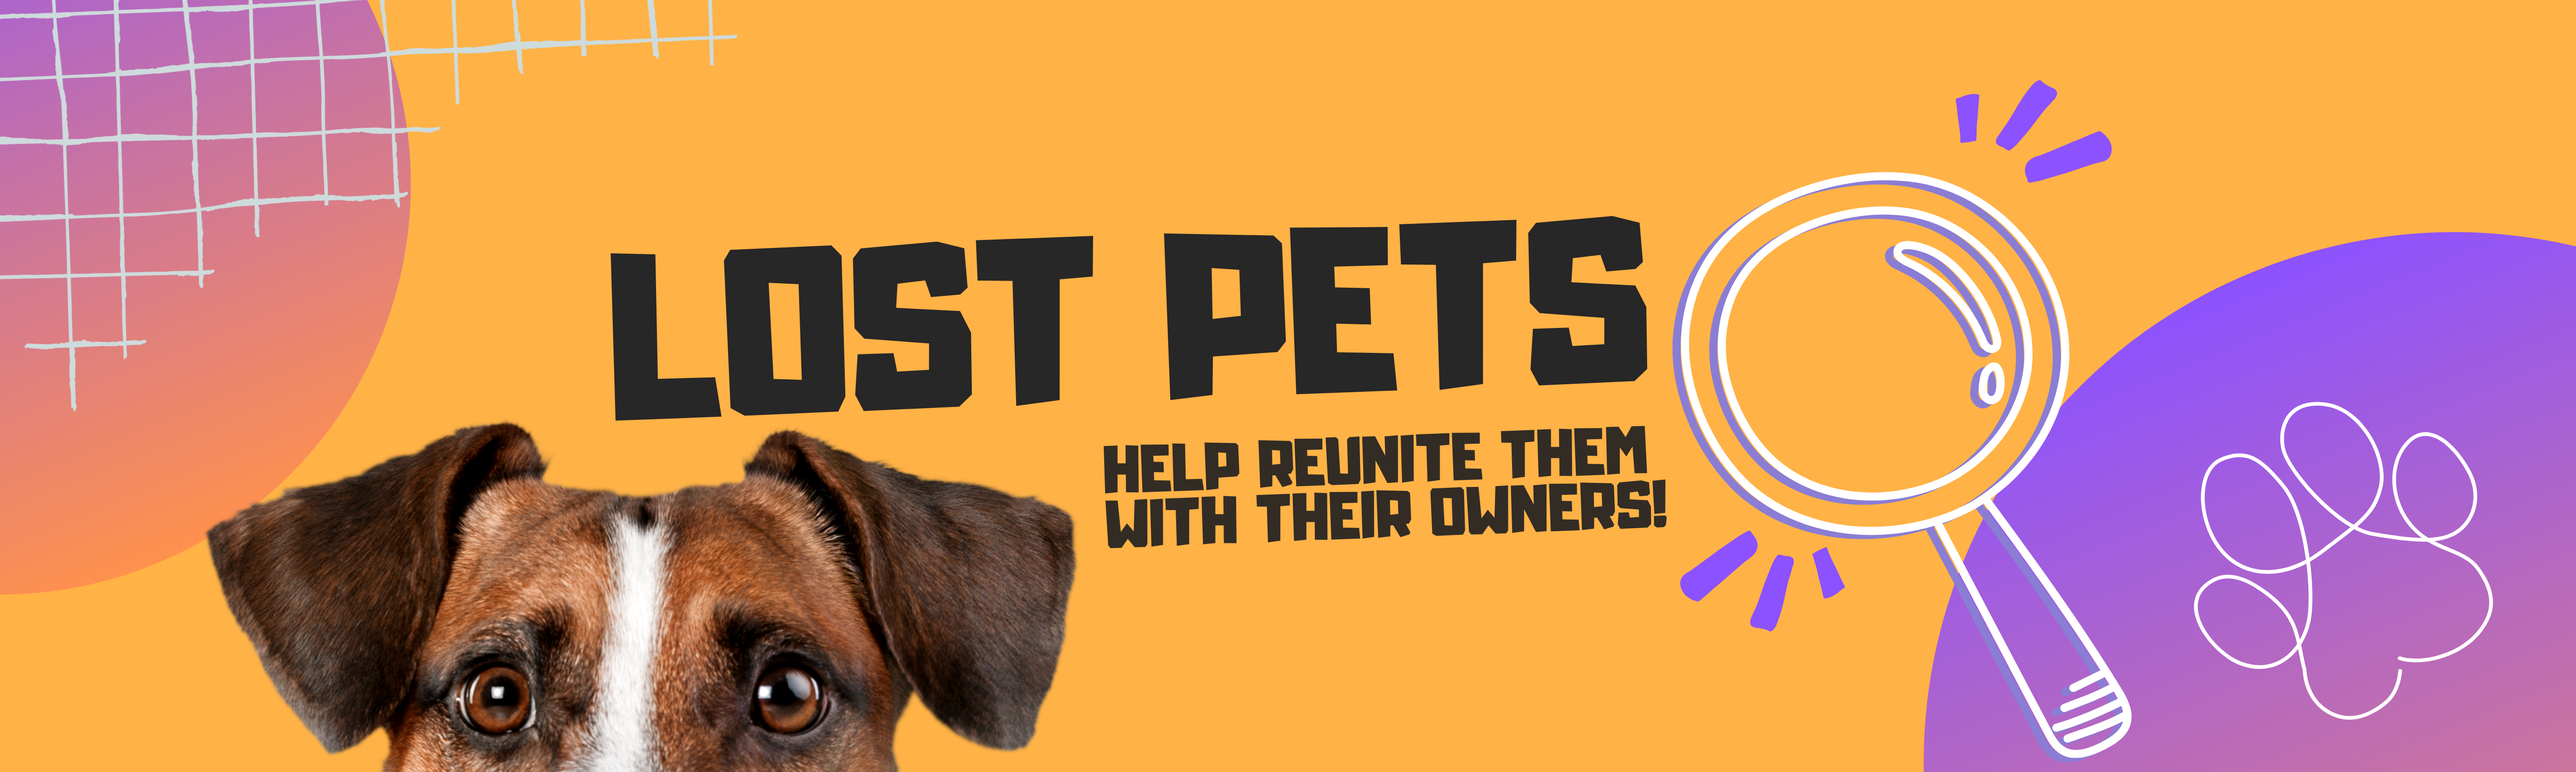
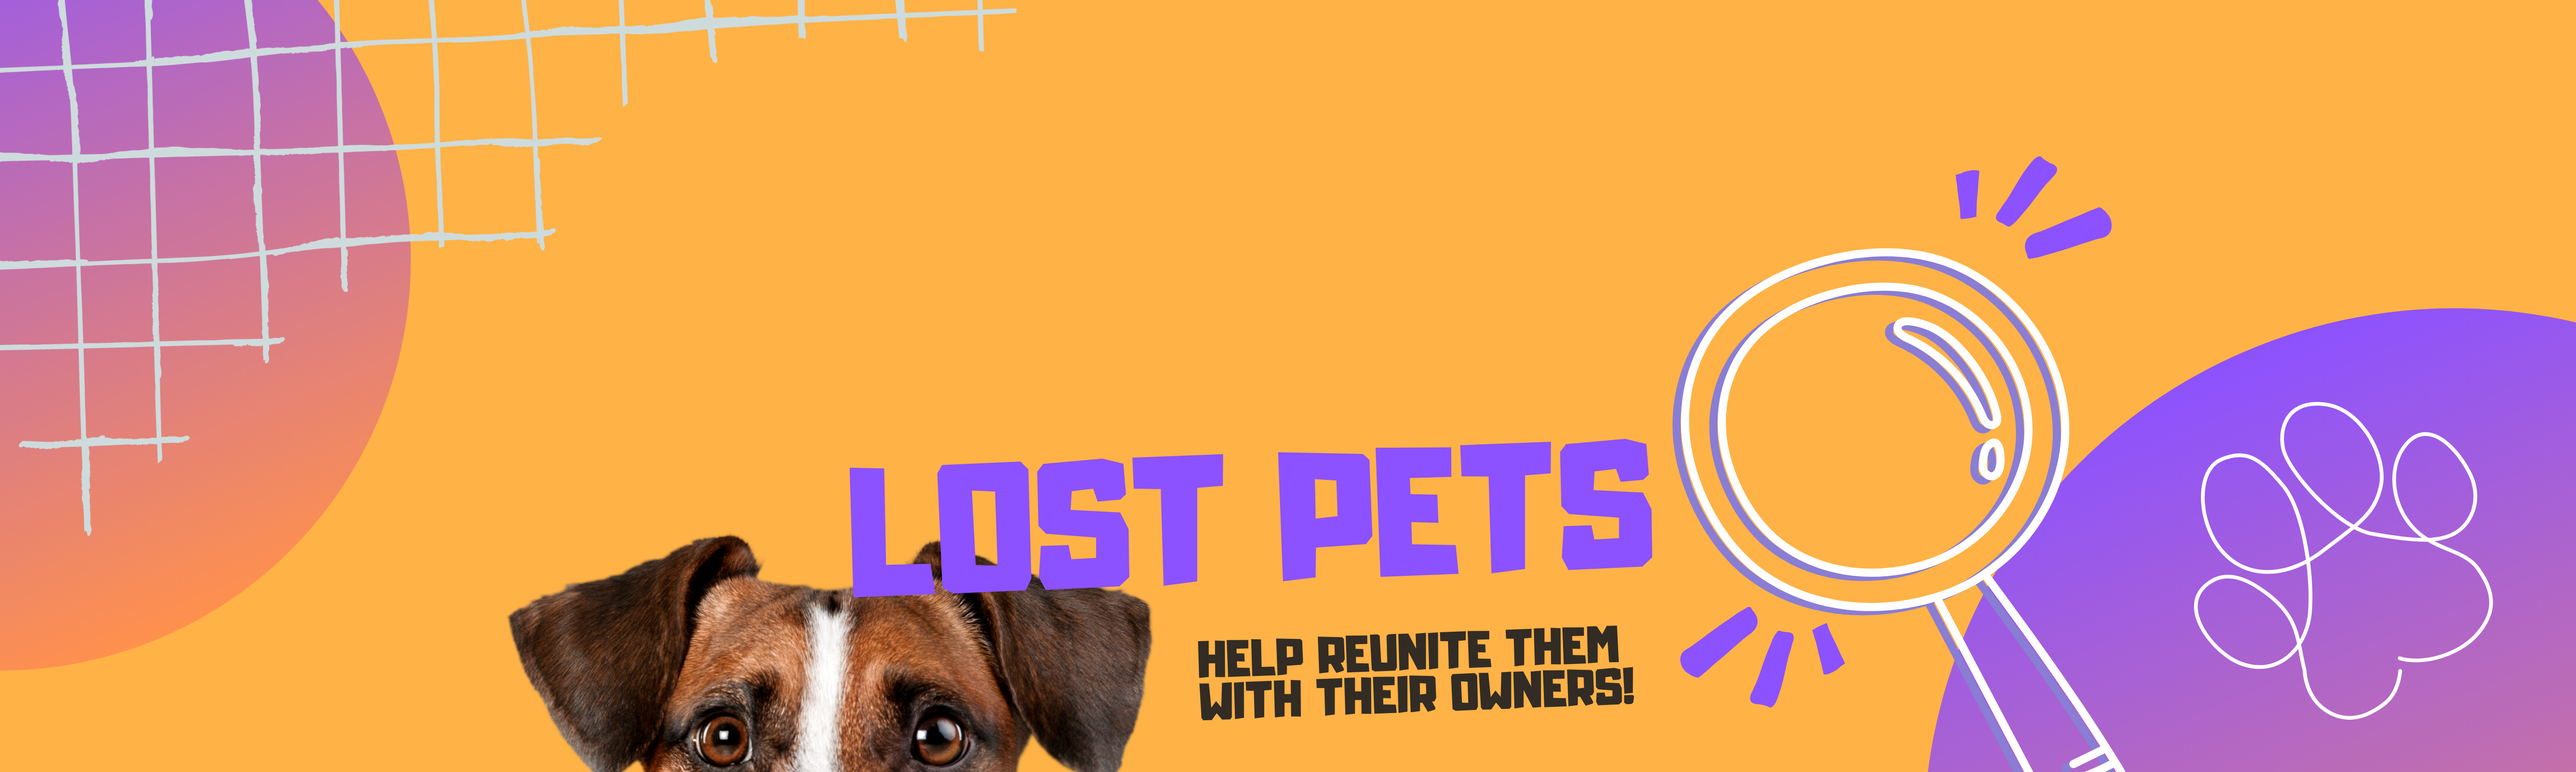
Updated Nav bar and Slug Edit Page

diff --git a/Final-Project-Frontend/src/component/Nav.svelte b/Final-Project-Frontend/src/component/Nav.svelte
@@ -1,4 +1,7 @@
 <script>
+import { loggedIn, logOut } from '../utils/func'
+
+
 
 </script>
 
@@ -7,12 +10,13 @@
   <div class="navbar-start">
     <div class="dropdown">
       <div tabindex="0" role="button" class="btn btn-ghost lg:hidden">
-        <svg xmlns="http://www.w3.org/2000/svg" class="h-5 w-5" fill="none" viewBox="0 0 24 24" stroke="currentColor"><path stroke-linecap="round" stroke-linejoin="round" stroke-width="2" d="M4 6h16M4 12h8m-8 6h16" /></svg>
+        <img src="/BurgerM.png" alt="Icon" class="h-8 w-8" fill="none" viewBox="0 0 24 24" stroke="currentColor"><path stroke-linecap="round" stroke-linejoin="round" stroke-width="2" d="M4 6h16M4 12h8m-8 6h16">
       </div>
 <!-- Small/Mobile Broswer -->
-      <ul tabindex="0" class="menu menu-sm dropdown-content mt-3 z-[1] p-2 shadow bg-base-100 rounded-box w-52">
+      <ul class="menu menu-sm dropdown-content mt-3 z-[1] p-2 shadow bg-base-100 rounded-box w-52">
         <li><a href="/ourMission">Our Mission</a></li>
         <li>
+          <!-- svelte-ignore a11y-missing-attribute -->
           <a>Find out more</a>
           <ul class="p-2">
             <li><a href="/lostGallery">Search lost pet</a></li>
@@ -41,31 +45,23 @@
           </ul>
         </details>
       </li>
+      {#if $loggedIn}
       <li><a href="/form/upload" class="text-white">Create Post</a></li>
+      {:else}
+      <li><a href="/users/login" class="text-white">Create Post</a></li>
+      {/if}
     </ul>
   </div>
   <div class="navbar-end">
-
-    <a href="/users/create" class="btn btn-outline btn-accent mr-3">Create Account</a>
-    <a href="/users/login" class="btn btn-outline btn-accent mr-3">Login</a>
-
-  </div>
+    {#if $loggedIn}
+      <!-- Display user profile and log out buttons when user is logged in -->
+      <a href="/profile" class="btn btn-outline btn-accent mr-3">User Profile</a>
+      <button on:click={logOut} href = "/" class="btn btn-outline btn-accent mr-3">Log Out</button>
+    {:else}
+      <!-- Display create account and login buttons when user is not logged in -->
+      <a href="/users/create" class="btn btn-outline btn-accent mr-3">Create Account</a>
+      <a href="/users/login" class="btn btn-outline btn-accent mr-3">Login</a>
+    {/if}
 </div>
-
-
-
-
-<!-- Login Logout Button -->
-<!-- 
-<div class="navbar-end">
-  {#if userLoggedIn} -->
-    <!-- Display user profile and log out buttons when user is logged in -->
-    <!-- <a href="/user-profile" class="btn btn-outline btn-accent mr-3">User Profile</a>
-    <button class="btn btn-outline btn-accent mr-3" onclick="logOut()">Log Out</button>
-  {:else} -->
-    <!-- Display create account and login buttons when user is not logged in -->
-    <!-- <a href="/create-account" class="btn btn-outline btn-accent mr-3">Create Account</a>
-    <a href="/login" class="btn btn-outline btn-accent mr-3">Login</a>
-  {/if}
-</div> -->
+</div>
 

diff --git a/Final-Project-Frontend/src/routes/users/login/+page.svelte b/Final-Project-Frontend/src/routes/users/login/+page.svelte
@@ -1,53 +1,32 @@
 <script>
-  import { PUBLIC_BACKEND_BASE_URL } from '$env/static/public';
   import { goto } from '$app/navigation';
-  import { loggedIn } from '../../../utils/func';
+  import { authLogin } from '../../../utils/func';
+
+  let formErrors = {};
+  let clicked = false;
+
+  function postLoggedIn() {
+    goto('/');
+  }
 
   async function login(evt) {
     evt.preventDefault();
+    clicked = true;
 
     const userData = {
       email: evt.target['email'].value,
       password: evt.target['password'].value
     };
-
-    const resp = await fetch(PUBLIC_BACKEND_BASE_URL + '/auth', {
-      method: 'POST',
-      mode: 'cors',
-      headers: {
-        'Content-Type': 'application/json'
-      },
-      body: JSON.stringify(userData)
-    });
-
-    const res = await resp.json();
-    console.log(res.accessToken);
-    console.log(res.body)
-    console.log(resp.status)
-    
-
-    if (resp.status == '200') {
-      localStorage.setItem(
-        'auth',
-        JSON.stringify({
-          token: res.accessToken
-        })
-      );
-      console.log('worked')
-      loggedIn.set(true);
-      goto('/');
-    } else if (resp.status === 400) {
-      const res = await resp.json();
-      formErrors = res.data;
-      console.log('worked400')
+    console.log(userData); //Prints in console if login is successful
+    // If not logged in, perform login operation
+    const resp = await authLogin(userData.email, userData.password);
+    if (resp.success) {
+      postLoggedIn();
     } else {
-      console.log('else')
+      formErrors = resp.res.error;
+      clicked = false;
     }
-    console.log(resp.status);
-    return formErrors;
   }
-
-  let formErrors = login();
 </script>
 
 <div class="hero min-h-screen">
@@ -65,13 +44,12 @@
           <span class="label-text">Password</span>
         </label>
         <input type="password" placeholder="password" class="input input-bordered" name="password" required />
-          <a href="/" class="label-text-alt link link-hover">Forgot password?</a>
       </div>
       <div class="form-control mt-2">
         <button class="btn btn-primary">Login</button>
       </div>
       <div class="mt-6 w-full">
-        <span class="label-text text-base font-bold mb-5">Dont have an account?</span>
+        <span class="label-text text-base font-bold mb-5">Don't have an account?</span>
         <a href="/users/create" class="btn btn-primary w-full">Register</a>
       </div>
     </form>

diff --git a/Final-Project-Frontend/src/utils/func.js b/Final-Project-Frontend/src/utils/func.js
@@ -1,8 +1,6 @@
 import { PUBLIC_BACKEND_BASE_URL } from '$env/static/public';
 import { writable } from 'svelte/store';
 
-export const currentTheme = writable('emerald')
-//console.log(currentTheme)
 
 const emptyAuth = {
     "token": "",
@@ -11,7 +9,7 @@ const emptyAuth = {
 
 export const loggedIn = writable(false)
 
-export function logOut(evt) {
+export function logOut() {
     localStorage.setItem("auth", JSON.stringify(emptyAuth))
     loggedIn.set(false)
     return true
@@ -36,8 +34,46 @@ export function getTokenFromLocalStorage() {
 export async function isLoggedIn() {
     if (!(getTokenFromLocalStorage())) {
         loggedIn.set(false)
-        return false
-    }
-    loggedIn.set(true)
-    return true
+    } else loggedIn.set(true);
+}
+
+
+
+export async function authLogin (email, password) {
+    const resp = await fetch (PUBLIC_BACKEND_BASE_URL + '/auth', {
+        method: 'POST',
+        mode: 'cors',
+        headers: {
+            'Content-Type' : 'application/json'
+        },
+        body: JSON.stringify ({
+            email,
+            password
+        })
+    });
+
+const res = await resp.json ();
+
+if (resp.status == 200) {
+    localStorage.setItem(
+        'auth',
+        JSON.stringify({
+            token: res.accessToken,
+            userID: res.userId
+        })
+    );
+
+    loggedIn.set(true);
+
+    return {
+        success: true,
+        res: res
+    };
+}
+
+    return {
+        success: false,
+        res: res
+    };
+    
 }

diff --git a/Final-Project-Frontend/src/routes/form/[slug]/edit/+page.svelte b/Final-Project-Frontend/src/routes/form/[slug]/edit/+page.svelte
@@ -3,14 +3,22 @@
 	import { goto } from '$app/navigation';
 	import { uploadMedia } from '../../../../utils/s3-uploader.js';
 	import { getTokenFromLocalStorage } from '../../../../utils/func';
-  export let data
+  	
+	export let data
 
 	let formErrors = {};
+	let fileName, fileUrl;
 
 	async function uploadImage(evt) {
 		evt.preventDefault();
-		const [fileName, fileUrl] = await uploadMedia(evt.target['image'].files[0]);
+		const newImage = evt.target['image'].files[0];
 
+        if (newImage != null) {
+        	[fileName, fileUrl] = await uploadMedia(evt.target['image'].files[0]);
+        } else {
+            fileUrl = data.pet.pet_image_url;
+        }
+		
 		const accessToken = getTokenFromLocalStorage();
 
 		const userData = {
@@ -18,13 +26,16 @@
 			pet_breed: evt.target['breed'].value,
 			pet_colour: evt.target['color'].value,
 			pet_gender: evt.target['gender'].value,
-      pet_age: evt.target['age'].value,
-      pet_description: evt.target['description'].value,
-      pet_location: evt.target['location'].value,
-      pet_status: evt.target['status'].value
+			pet_age: evt.target['age'].value,
+			pet_description: evt.target['description'].value,
+			pet_location: evt.target['location'].value,
+			pet_status: evt.target['status'].value,
+			pet_image_url: fileUrl
 		};
 
 		console.log(userData);
+
+
 
 		const resp = await fetch(PUBLIC_BACKEND_BASE_URL + '/pet', {
 			method: 'PUT',

diff --git a/Final-Project-Frontend/src/routes/profile/+page.js b/Final-Project-Frontend/src/routes/profile/+page.js
@@ -1,0 +1,27 @@
+// import { PUBLIC_BACKEND_BASE_URL } from '$env/static/public';
+// import { getTokenFromLocalStorage, getUserId } from '../../utils/func.js';
+
+// export async function load({ fetch }) {
+//     const token = getTokenFromLocalStorage();
+//     const userID = getUserId();
+
+//     const resp = await fetch(`${PUBLIC_BACKEND_BASE_URL}/image/user/${userID}`, { // Moved closing bracket to here
+//         method: 'GET',
+//         mode: 'cors',
+//         headers: {
+//             'Content-Type': 'application/json',
+//             Authorization: `Bearer ${token}`
+//         }
+//     }); // Corrected placement of closing bracket
+
+//     const res = await resp.json();
+//     if (resp.status === 200) {
+//         return {
+//             pet: res
+//         };
+//     } else {
+//         return {
+//             pets: []
+//         };
+//     }
+// }

diff --git a/Final-Project-Frontend/src/routes/foundGallery/+page.svelte b/Final-Project-Frontend/src/routes/foundGallery/+page.svelte
@@ -1,8 +1,8 @@
-<!-- Top Banner -->
-<div class="min-h-96" style="background-image: url('/Banner3.png'); background-size: cover;">
+<div class="min-h-96" style="background-image: url('/Banner3.png'); background-size: cover; background-position: bottom;">
   <div class="hero-content text-center text-neutral-content">
   </div>
 </div>
+
 
 
 <!-- Left Side Info-->
@@ -21,7 +21,7 @@
       <div class="label mt-10">
           <span class="label-text text-purple-700 font-bold">Browse Gallery</span>
       </div>
-      <a href="/foundGallery" class="btn btn-accent mb-3">Lost Pets Gallery</a>
+      <a href="/lostGallery" class="btn btn-accent mb-3">Lost Pets Gallery</a>
       <a href="/reunitedGallery" class="btn btn-accent mb-3">Reunited Pets Gallery</a>
   </label>
 

diff --git a/Final-Project-Frontend/src/routes/lostGallery/+page.svelte b/Final-Project-Frontend/src/routes/lostGallery/+page.svelte
@@ -1,5 +1,4 @@
-<!-- Top Banner -->
-<div class="min-h-96" style="background-image: url('/Banner2.png'); background-size: cover;">
+<div class="min-h-96" style="background-image: url('/Banner2.png'); background-size: cover; background-position: bottom;">
   <div class="hero-content text-center text-neutral-content">
   </div>
 </div>

diff --git a/Final-Project-Frontend/src/routes/reunitedGallery/+page.svelte b/Final-Project-Frontend/src/routes/reunitedGallery/+page.svelte
@@ -1,5 +1,5 @@
 <!-- Top Banner -->
-<div class="min-h-96" style="background-image: url('/Banner1.png'); background-size: cover;">
+<div class="min-h-96" style="background-image: url('/Banner1.png'); background-size: cover; background-position: bottom;">
   <div class="hero-content text-center text-neutral-content">
   </div>
 </div>

diff --git a/Final-Project-Frontend/src/routes/users/create/+page.svelte b/Final-Project-Frontend/src/routes/users/create/+page.svelte
@@ -28,7 +28,7 @@
     });
 
         if(resp.status === 200) {
-      goto('/users/login')
+      goto('/form/upload')
         } else if (resp.status === 400) {
             const res = await resp.json();
       formErrors = res.data;

diff --git a/Final-Project-Frontend/src/routes/profile/+page.svelte b/Final-Project-Frontend/src/routes/profile/+page.svelte
@@ -1,3 +1,7 @@
+<script>
+
+  
+</script>
 
 
 <!-- User Account Details -->
